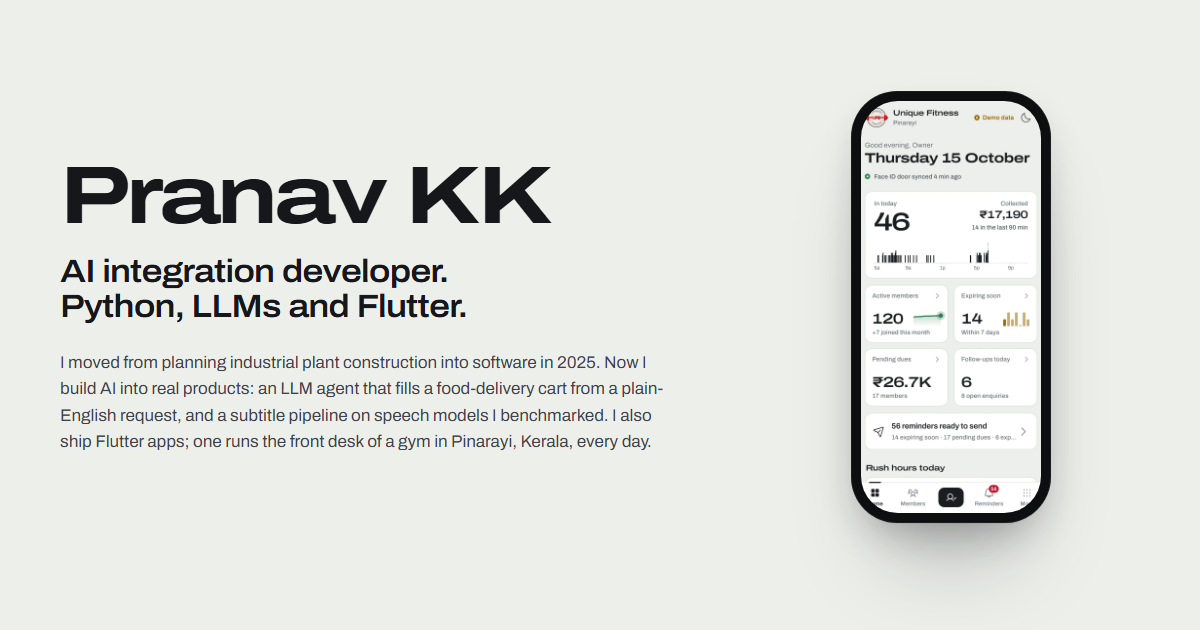
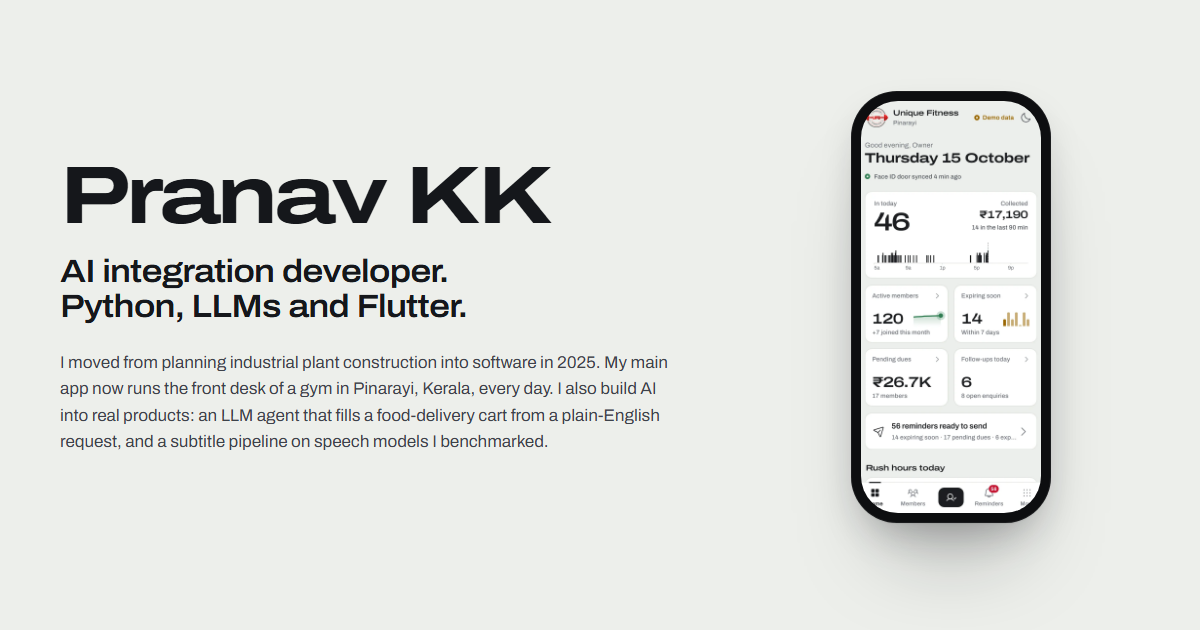
Put the gym app back first as the main project

Changed region(s): [[0.0308, 0.5429, 0.555, 0.7238]]

diff --git a/index.html b/index.html
@@ -38,15 +38,15 @@
           <h1 id="hero-title" class="hero-title" data-split>Pranav KK</h1>
           <p class="hero-role" data-hero-fade>AI integration developer. Python, LLMs and Flutter.</p>
           <p class="hero-lede" data-hero-fade>
-            I moved from planning industrial plant construction into software in 2025. Now I build AI
-            into real products: an LLM agent that fills a food-delivery cart from a plain-English request,
-            and a subtitle pipeline on speech models I benchmarked. I also ship Flutter apps; one runs the
-            front desk of a gym in Pinarayi, Kerala, every day.
+            I moved from planning industrial plant construction into software in 2025. My main app now
+            runs the front desk of a gym in Pinarayi, Kerala, every day. I also build AI into real
+            products: an LLM agent that fills a food-delivery cart from a plain-English request, and a
+            subtitle pipeline on speech models I benchmarked.
           </p>
           <ul class="hero-index" data-hero-fade aria-label="Projects">
+            <li><a href="#work"><b>Unique Fitness Gym</b><span>Flutter, in daily use</span></a></li>
             <li><a href="#cravio"><b>Cravio</b><span>LLM agent with tool calling</span></a></li>
             <li><a href="#polysub"><b>PolySub</b><span>Speech models and LLM translation</span></a></li>
-            <li><a href="#gym"><b>Unique Fitness Gym</b><span>Flutter, in daily use</span></a></li>
           </ul>
           <p class="hero-status" data-hero-fade>
             <span class="live-dot" aria-hidden="true"></span>Open to AI integration, GenAI and Python developer roles in the UAE (ready to relocate and join immediately) or in Bengaluru and remote.
@@ -67,64 +67,10 @@
         </div>
       </section>
 
-      <!-- 2. AI projects -->
-      <section id="work" class="projects" aria-labelledby="more-title">
-        <h2 id="more-title" class="section-title">AI projects</h2>
-
-        <article id="cravio" class="project">
-          <div class="project-media" data-reveal>
-            <div class="browser"><span class="browser-bar" aria-hidden="true"><i></i><i></i><i></i></span>
-              <div class="browser-shot"><img data-zoom src="/img/cravio-home.webp" width="1280" height="1250" loading="lazy" decoding="async" alt="Cravio home page: restaurants that deliver to you, nearest first, each with a delivery time." /></div>
-            </div>
-          </div>
-          <div class="project-text">
-            <h3>Cravio</h3>
-            <p class="project-what">Food delivery where an AI assistant builds your cart from a plain-English request.</p>
-            <ul>
-              <li>Ask for "biryani under ₹300 that reaches me in 30 minutes": the assistant searches the demo menus through five server-side tools, suggests matching dishes and adds the ones you pick to your cart. Checkout always stays with the customer.</li>
-              <li>The assistant is an agent loop: the model asks for a tool, the server runs it and sends back the result, up to six rounds per message. It is told to recommend only what the tools returned, so it doesn't invent dishes or prices, and a visitor's own API key is used for that one request and never stored.</li>
-              <li>Only restaurants that deliver to your location, nearest first, with delivery times; out-of-range orders are refused on the server.</li>
-              <li>Role-based access for customers, vendors and admins, Razorpay payments verified on the server, and 85 automated tests.</li>
-            </ul>
-            <p class="project-stack">Python, Django, LLM tool calling, MySQL, Razorpay, Leaflet</p>
-            <p class="project-links"><a href="https://cravio-p4lw.onrender.com">Live demo</a><a href="https://github.com/pranavkk7/cravio">Code</a></p>
-            <p class="project-note">The demo runs on a free server that sleeps when idle, so the first visit can take about a minute.</p>
-          </div>
-        </article>
-
-        <article id="polysub" class="project project-flip">
-          <div class="project-media" data-reveal>
-            <div class="subs" data-sample-slot>
-              <p class="subs-head">PolySub output on Japanese sentences from Google's FLEURS dataset</p>
-              <ol class="subs-list">
-                <li><span class="subs-time">00:01.6 → 00:05.7</span><span lang="ja">日本には約7000の島々があり、その最大は本州列島</span><span>There are about 7,000 islands in Japan, and the largest of them is the Honshu</span></li>
-                <li><span class="subs-time">00:05.8 → 00:08.7</span><span lang="ja">で、世界で7番目に大きい島とされています。</span><span>Islands, the seventh largest island in the world.</span></li>
-              </ol>
-              <p class="subs-foot">Japanese by Whisper large-v3. The English in this sample is Whisper's built-in translation; PolySub's LLM translation needs an API key.</p>
-            </div>
-            <button class="sample" type="button" data-sample="/media/polysub.mp4" data-track="/media/polysub-en.vtt">
-              <span class="sample-icon" aria-hidden="true"></span>
-              <span><b>Play the clip</b> with PolySub's English subtitles (sound on)</span>
-            </button>
-          </div>
-          <div class="project-text">
-            <h3>PolySub</h3>
-            <p class="project-what">Subtitles in about 100 languages, using whichever speech model measured more accurate.</p>
-            <ul>
-              <li>I benchmarked models on Google's FLEURS: Qwen3-ASR won for English (3.8% word error rate) and Whisper large-v3 for Japanese (4.1% character error rate).</li>
-              <li>An LLM translates in numbered batches and replies in a fixed JSON schema, one line per subtitle; any line it misses is asked for again, so every subtitle keeps its timing. Each batch sees the last few translations, so names stay consistent. Outputs SRT, WebVTT, bilingual files or video with subtitles burned in.</li>
-              <li>Speech recognition runs locally on my RTX 4060; translation calls an LLM API. A Gradio web page, and 44 tests that run without a GPU.</li>
-            </ul>
-            <p class="project-stack">Python, PyTorch, Qwen3-ASR, Whisper, LLM API, FFmpeg, Gradio</p>
-            <p class="project-links"><a href="https://pranavkk7.github.io/polysub/">Watch the demo</a><a href="https://github.com/pranavkk7/polysub">Code</a></p>
-          </div>
-        </article>
-      </section>
-
-      <!-- 3. The shipped Flutter app as a scroll story -->
-      <section id="gym" class="feature" aria-labelledby="gym-title">
+      <!-- 2. The main project as a scroll story -->
+      <section id="work" class="feature" aria-labelledby="gym-title">
         <div class="feature-intro">
-          <p class="feature-label">Shipped and in daily use</p>
+          <p class="feature-label">Main project</p>
           <h2 id="gym-title" class="feature-title" data-split-words>Unique Fitness Gym</h2>
           <p class="feature-lede">
             The front-desk app of a gym in Pinarayi, Kerala, used there every day on the gym
@@ -196,9 +142,60 @@
         </div>
       </section>
 
-      <!-- Smaller, non-AI work, after the shipped app -->
-      <section class="smaller-band" aria-label="Smaller work">
-        <div class="smaller smaller-alone">
+      <!-- 3. More projects -->
+      <section class="projects" aria-labelledby="more-title">
+        <h2 id="more-title" class="section-title">More projects</h2>
+
+        <article id="cravio" class="project">
+          <div class="project-media" data-reveal>
+            <div class="browser"><span class="browser-bar" aria-hidden="true"><i></i><i></i><i></i></span>
+              <div class="browser-shot"><img data-zoom src="/img/cravio-home.webp" width="1280" height="1250" loading="lazy" decoding="async" alt="Cravio home page: restaurants that deliver to you, nearest first, each with a delivery time." /></div>
+            </div>
+          </div>
+          <div class="project-text">
+            <h3>Cravio</h3>
+            <p class="project-what">Food delivery where an AI assistant builds your cart from a plain-English request.</p>
+            <ul>
+              <li>Ask for "biryani under ₹300 that reaches me in 30 minutes": the assistant searches the demo menus through five server-side tools, suggests matching dishes and adds the ones you pick to your cart. Checkout always stays with the customer.</li>
+              <li>The assistant is an agent loop: the model asks for a tool, the server runs it and sends back the result, up to six rounds per message. It is told to recommend only what the tools returned, so it doesn't invent dishes or prices, and a visitor's own API key is used for that one request and never stored.</li>
+              <li>Only restaurants that deliver to your location, nearest first, with delivery times; out-of-range orders are refused on the server.</li>
+              <li>Role-based access for customers, vendors and admins, Razorpay payments verified on the server, and 85 automated tests.</li>
+            </ul>
+            <p class="project-stack">Python, Django, LLM tool calling, MySQL, Razorpay, Leaflet</p>
+            <p class="project-links"><a href="https://cravio-p4lw.onrender.com">Live demo</a><a href="https://github.com/pranavkk7/cravio">Code</a></p>
+            <p class="project-note">The demo runs on a free server that sleeps when idle, so the first visit can take about a minute.</p>
+          </div>
+        </article>
+
+        <article id="polysub" class="project project-flip">
+          <div class="project-media" data-reveal>
+            <div class="subs" data-sample-slot>
+              <p class="subs-head">PolySub output on Japanese sentences from Google's FLEURS dataset</p>
+              <ol class="subs-list">
+                <li><span class="subs-time">00:01.6 → 00:05.7</span><span lang="ja">日本には約7000の島々があり、その最大は本州列島</span><span>There are about 7,000 islands in Japan, and the largest of them is the Honshu</span></li>
+                <li><span class="subs-time">00:05.8 → 00:08.7</span><span lang="ja">で、世界で7番目に大きい島とされています。</span><span>Islands, the seventh largest island in the world.</span></li>
+              </ol>
+              <p class="subs-foot">Japanese by Whisper large-v3. The English in this sample is Whisper's built-in translation; PolySub's LLM translation needs an API key.</p>
+            </div>
+            <button class="sample" type="button" data-sample="/media/polysub.mp4" data-track="/media/polysub-en.vtt">
+              <span class="sample-icon" aria-hidden="true"></span>
+              <span><b>Play the clip</b> with PolySub's English subtitles (sound on)</span>
+            </button>
+          </div>
+          <div class="project-text">
+            <h3>PolySub</h3>
+            <p class="project-what">Subtitles in about 100 languages, using whichever speech model measured more accurate.</p>
+            <ul>
+              <li>I benchmarked models on Google's FLEURS: Qwen3-ASR won for English (3.8% word error rate) and Whisper large-v3 for Japanese (4.1% character error rate).</li>
+              <li>An LLM translates in numbered batches and replies in a fixed JSON schema, one line per subtitle; any line it misses is asked for again, so every subtitle keeps its timing. Each batch sees the last few translations, so names stay consistent. Outputs SRT, WebVTT, bilingual files or video with subtitles burned in.</li>
+              <li>Speech recognition runs locally on my RTX 4060; translation calls an LLM API. A Gradio web page, and 44 tests that run without a GPU.</li>
+            </ul>
+            <p class="project-stack">Python, PyTorch, Qwen3-ASR, Whisper, LLM API, FFmpeg, Gradio</p>
+            <p class="project-links"><a href="https://pranavkk7.github.io/polysub/">Watch the demo</a><a href="https://github.com/pranavkk7/polysub">Code</a></p>
+          </div>
+        </article>
+
+        <div class="smaller">
           <h3 class="smaller-title">Smaller work</h3>
           <p class="smaller-row">
             <span><b>TaskBuddy</b>, a React 19 to-do app with no UI library: a progress ring, light and dark themes that load without a flash, and 27 tests, deployed by CI.</span>
@@ -219,7 +216,7 @@
         </div>
         <ol class="path" data-path>
           <span class="path-line" aria-hidden="true"><span data-path-fill></span></span>
-          <li><span class="path-when">2026–now</span><div><h3>Building AI-integrated apps</h3><p>Cravio's LLM agent and PolySub's speech and translation pipeline, plus Unique Fitness Gym, in daily use at a gym in Kerala. Each with tests and a demo.</p></div></li>
+          <li><span class="path-when">2026–now</span><div><h3>Building my own apps</h3><p>Unique Fitness Gym, in daily use at a gym in Kerala, plus two AI-integrated apps: Cravio's LLM agent and PolySub's speech and translation pipeline. Each with tests and a demo.</p></div></li>
           <li><span class="path-when">2025–2026</span><div><h3>Full-stack developer training</h3><p>KodNest, Bengaluru. Java, Python, Django, React and MySQL.</p></div></li>
           <li><span class="path-when">2022–2024</span><div><h3>Planning engineer</h3><p>Vrishal Engineering, Jamnagar. Scheduling, materials and manpower for industrial projects.</p></div></li>
           <li><span class="path-when">2017–2021</span><div><h3>B.E. Mechanical Engineering</h3><p>AJ Institute of Engineering &amp; Technology, Mangaluru.</p></div></li>

diff --git a/src/styles.css b/src/styles.css
@@ -1287,18 +1287,3 @@ video::cue {
     animation-duration: 0.01ms !important;
   }
 }
-
-/* The dark gym band now follows the AI projects, so it needs space above it. */
-.projects + .feature {
-  margin-top: clamp(96px, 12vw, 160px);
-}
-
-/* TaskBuddy sits on its own below the gym band, away from the AI projects. */
-.smaller-band {
-  margin: 0 auto;
-  padding: clamp(56px, 7vw, 96px) var(--edge) 0;
-}
-
-.smaller-alone {
-  margin-top: 0;
-}
